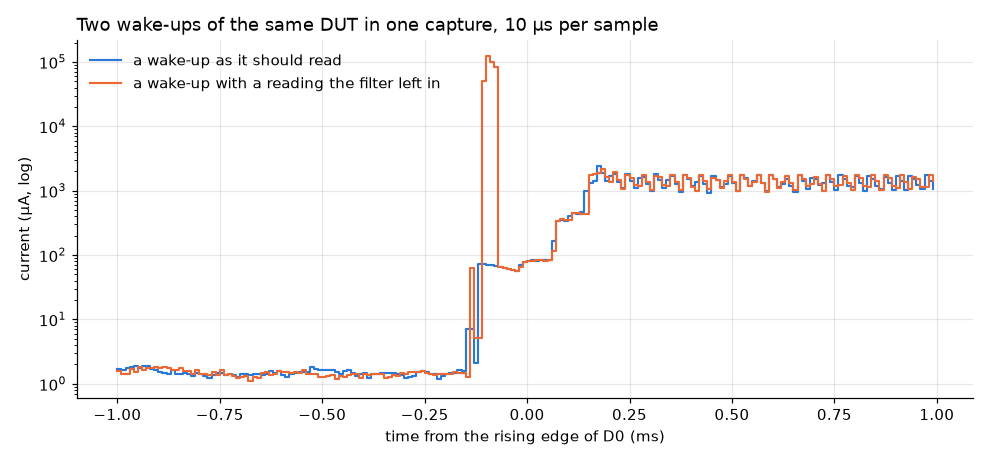
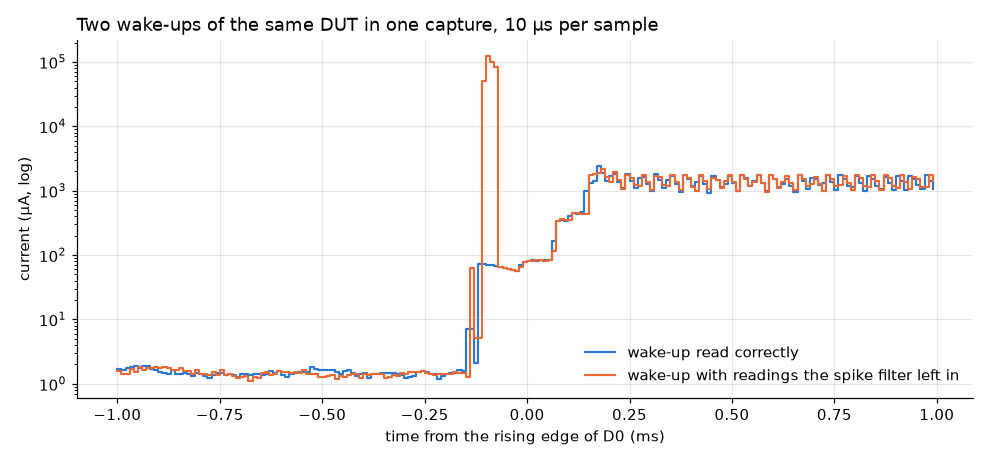
docs(validation): wake-up figure legend clear of the traces

Changed region(s): [[0.0909, 0.1212, 0.4242, 0.2121], [0.6364, 0.7576, 0.9697, 0.8485]]

diff --git a/validation/evidence/bench_dut/make_plots.py b/validation/evidence/bench_dut/make_plots.py
@@ -46,8 +46,8 @@ def wakeups(out_dir: Path) -> None:
     edges = edges[(edges > SKIP) & (edges < len(ua) - 100)]
     highest = np.array([ua[e - 100 : e + 100].max() for e in edges])
     picks = (
-        (edges[highest < 5_000][0], "a wake-up as it should read", "#2a78d6"),
-        (edges[highest > 20_000][0], "a wake-up with a reading the filter left in", "#eb6834"),
+        (edges[highest < 5_000][0], "wake-up read correctly", "#2a78d6"),
+        (edges[highest > 20_000][0], "wake-up with readings the spike filter left in", "#eb6834"),
     )
     fig, ax = plt.subplots(figsize=(9, 4.2))
     x = np.arange(-100, 100) * 0.01
@@ -65,7 +65,7 @@ def wakeups(out_dir: Path) -> None:
     ax.set_ylabel("current (µA, log)")
     ax.set_title("Two wake-ups of the same DUT in one capture, 10 µs per sample", loc="left")
     ax.grid(True, which="major", alpha=0.3)
-    ax.legend(loc="upper left", frameon=False)
+    ax.legend(loc="lower right", frameon=False)
     for side in ("top", "right"):
         ax.spines[side].set_visible(False)
     fig.tight_layout()
